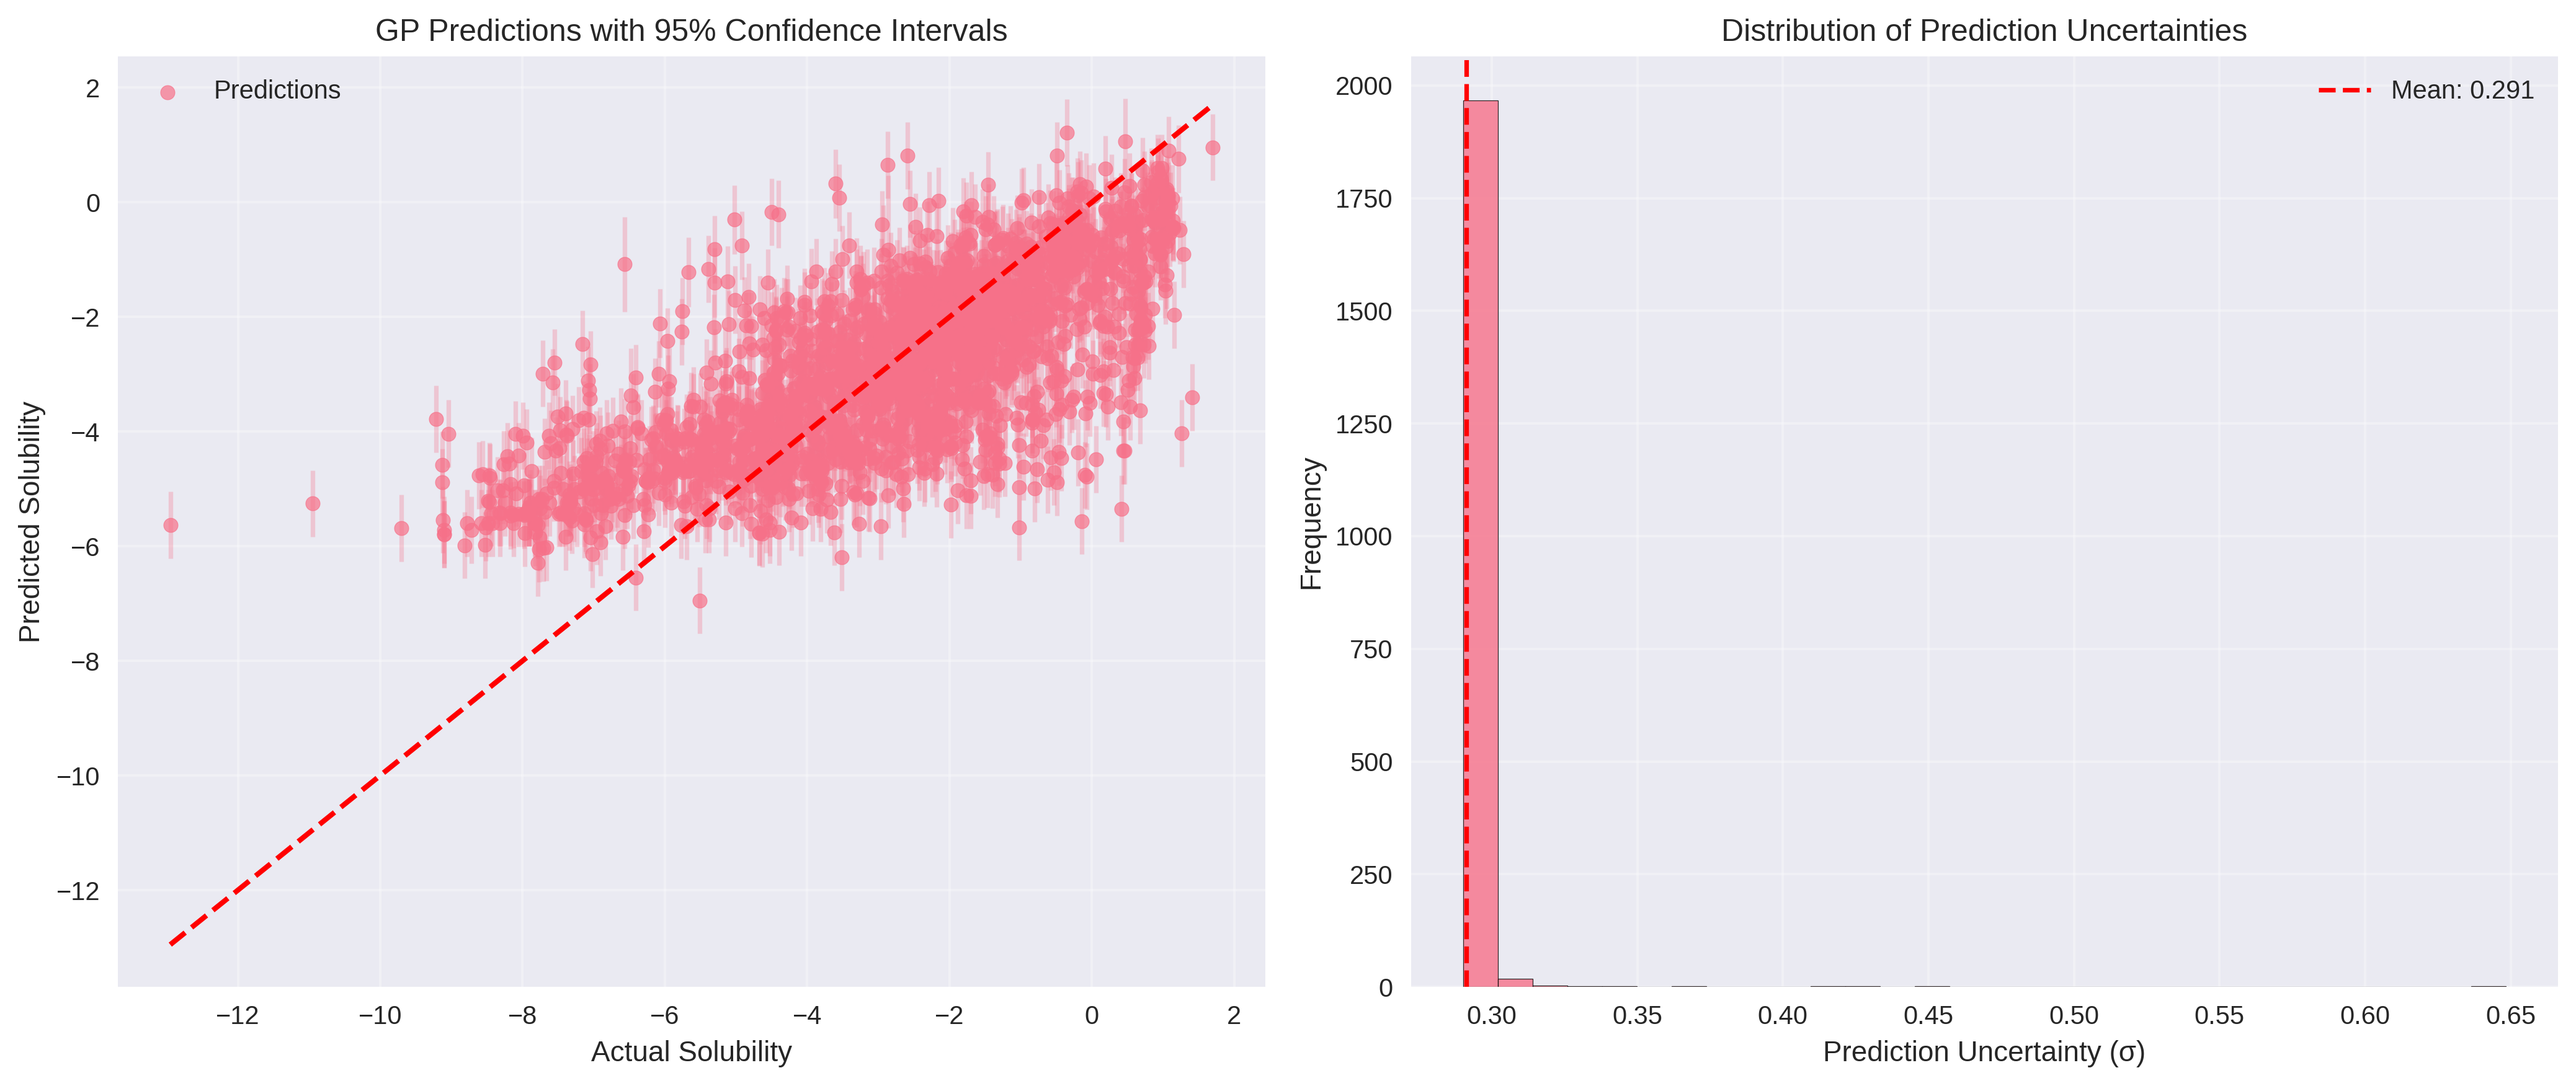
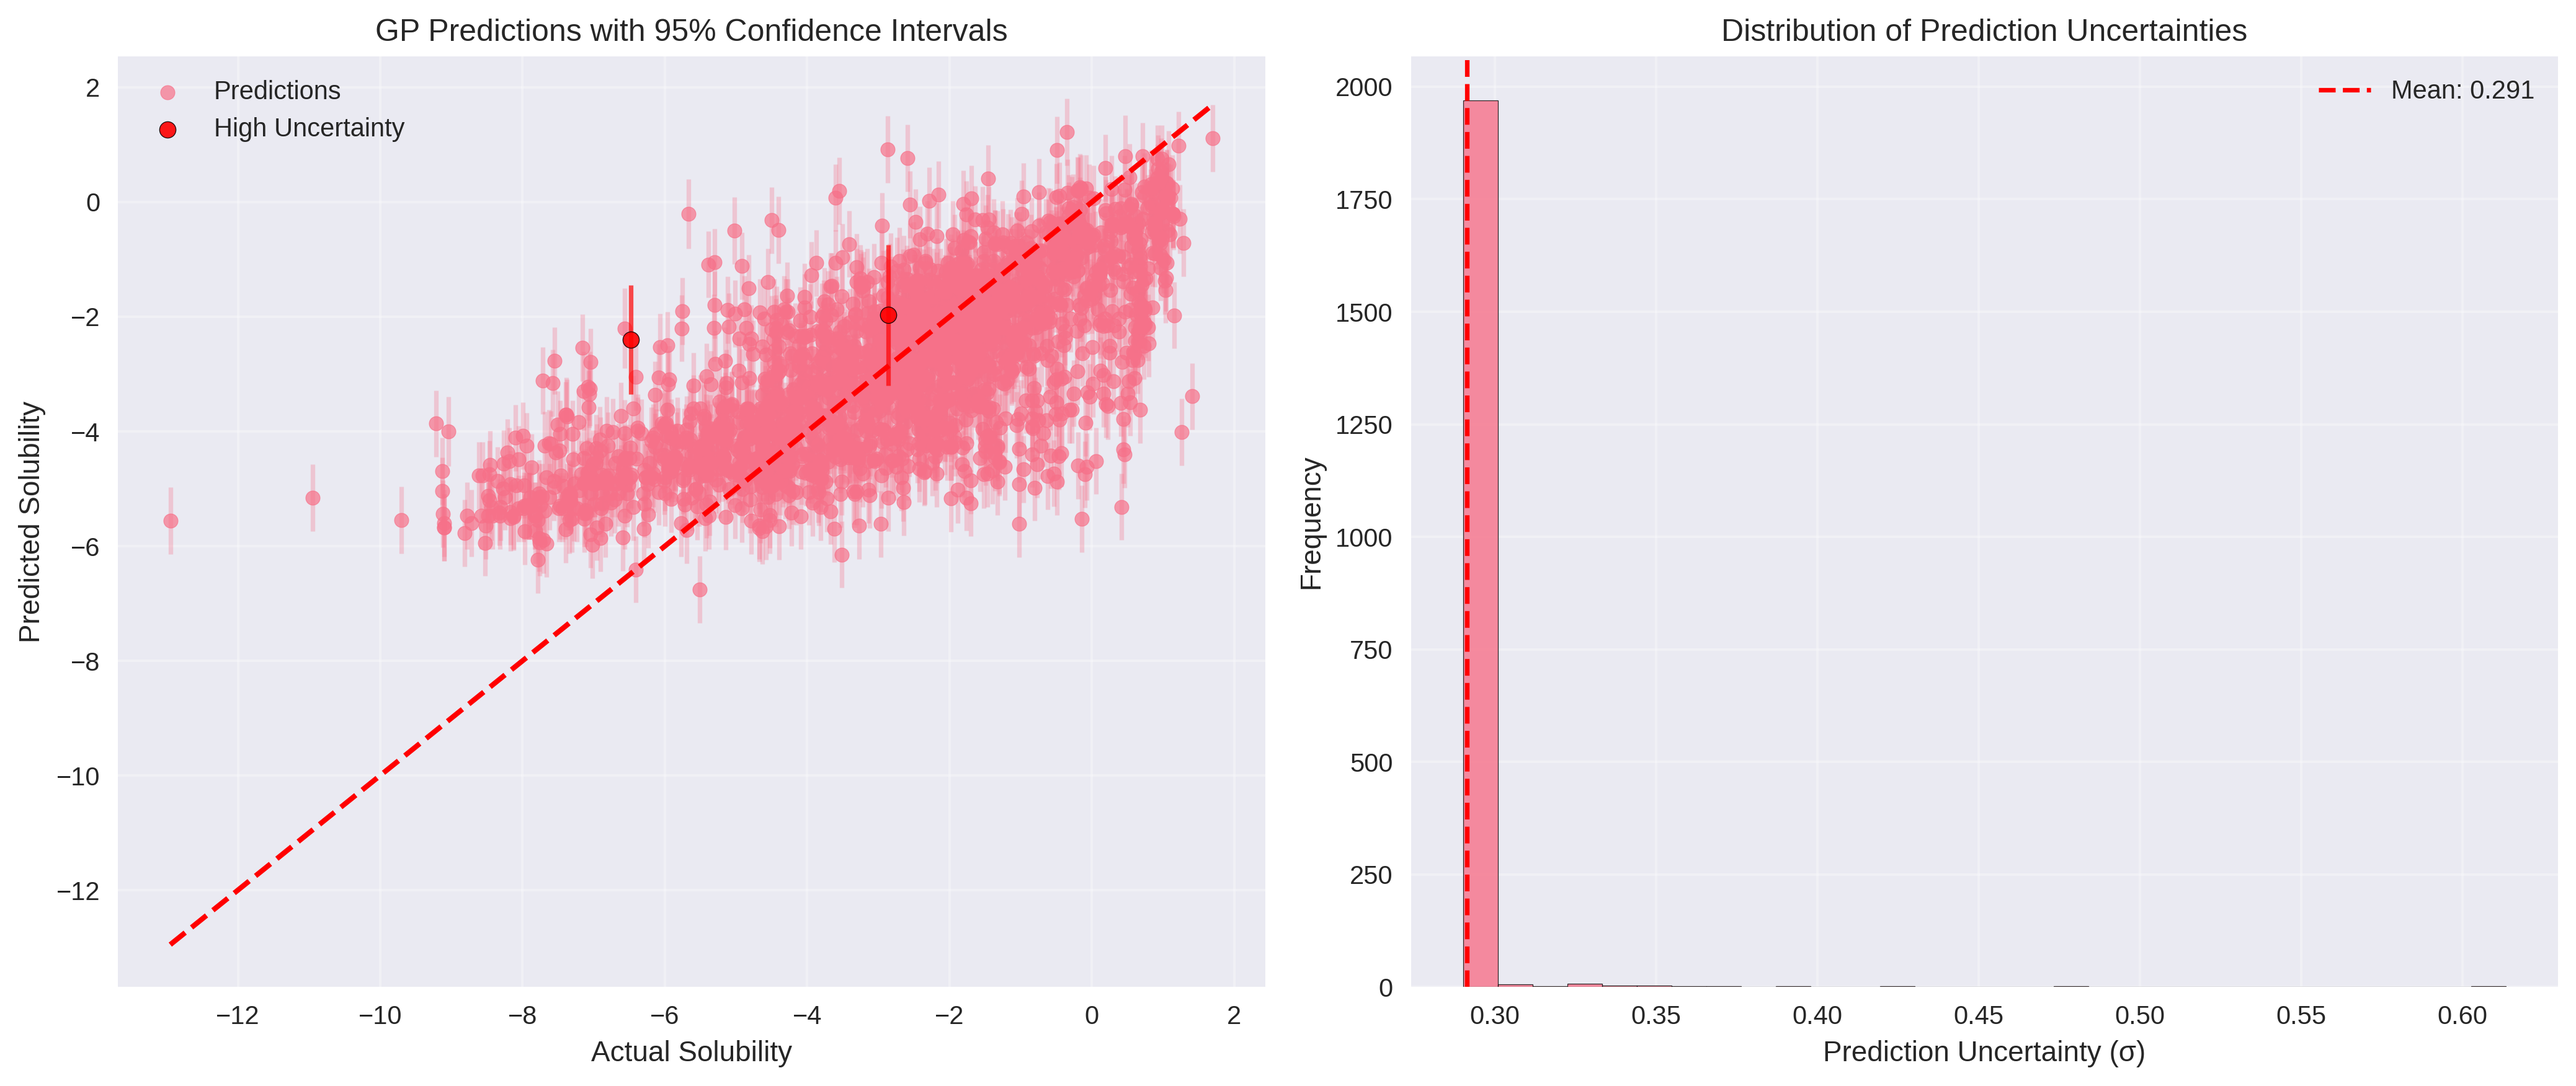
high uncertainty highlight

diff --git a/main.py b/main.py
@@ -41,8 +41,16 @@ def uncertainty_plot(gp, X_train, X_test, y_test):
 
     fig, axes = plt.subplots(1, 2, figsize=(14, 6))
 
-    axes[0].scatter(y_test, y_pred, alpha=0.7, s=30, label='Predictions')
-    axes[0].errorbar(y_test, y_pred, yerr=2*y_std, fmt='none', alpha=0.3, capsize=2)
+    # 1.5x median uncertainty get differently coloured
+    threshold = np.median(y_std) * 1.5
+    high_uncertainty = y_std > threshold
+    low_uncertainty = ~high_uncertainty
+
+    axes[0].scatter(y_test[low_uncertainty], y_pred[low_uncertainty], alpha=0.7, s=30, label='Predictions', color='C0')
+    axes[0].errorbar(y_test[low_uncertainty], y_pred[low_uncertainty], yerr=2*y_std[low_uncertainty], fmt='none', alpha=0.3, capsize=2, color='C0')
+    if np.any(high_uncertainty):
+        axes[0].scatter(y_test[high_uncertainty], y_pred[high_uncertainty], alpha=0.9, s=40, label='High Uncertainty', color='red', edgecolor='black', zorder=5)
+        axes[0].errorbar(y_test[high_uncertainty], y_pred[high_uncertainty], yerr=2*y_std[high_uncertainty], fmt='none', alpha=0.7, capsize=2, color='red')
     axes[0].plot([y_test.min(), y_test.max()], [y_test.min(), y_test.max()], 'r--', lw=2)
     axes[0].set_xlabel('Actual Solubility')
     axes[0].set_ylabel('Predicted Solubility')
